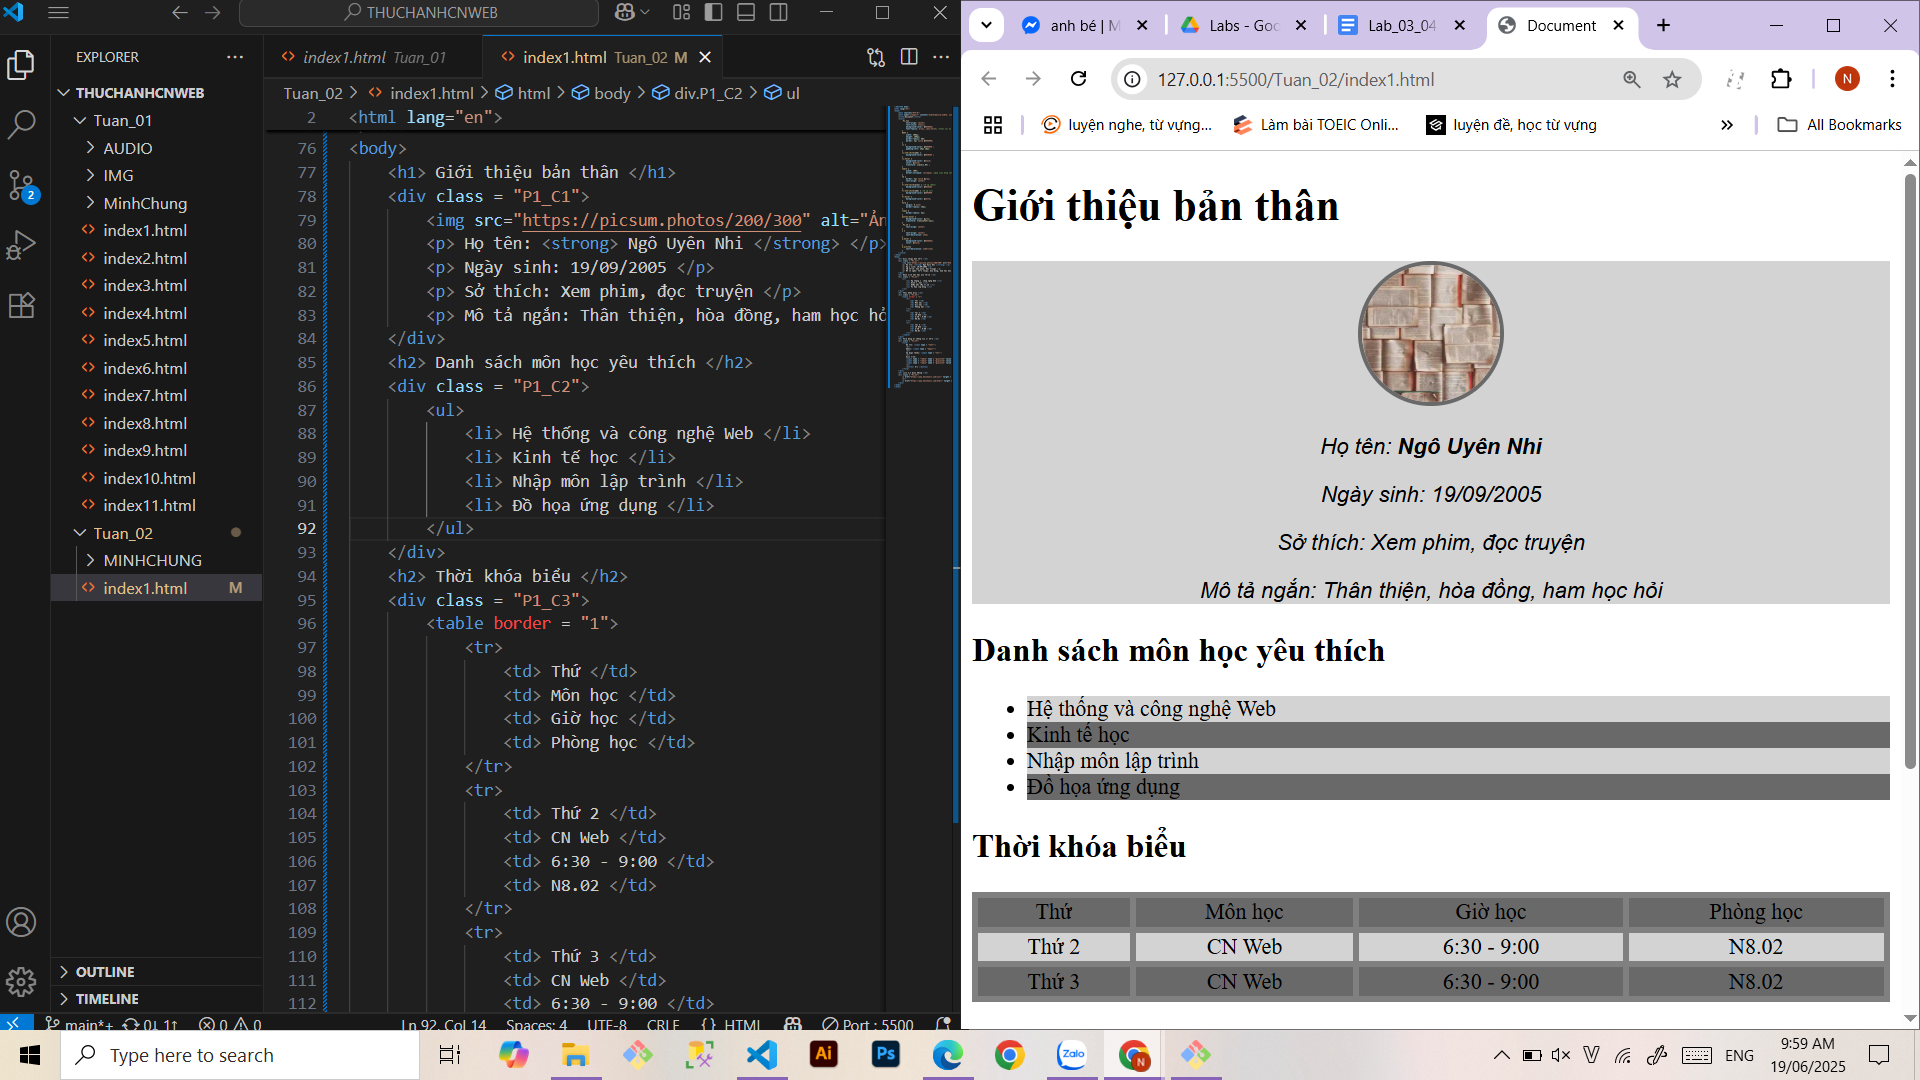
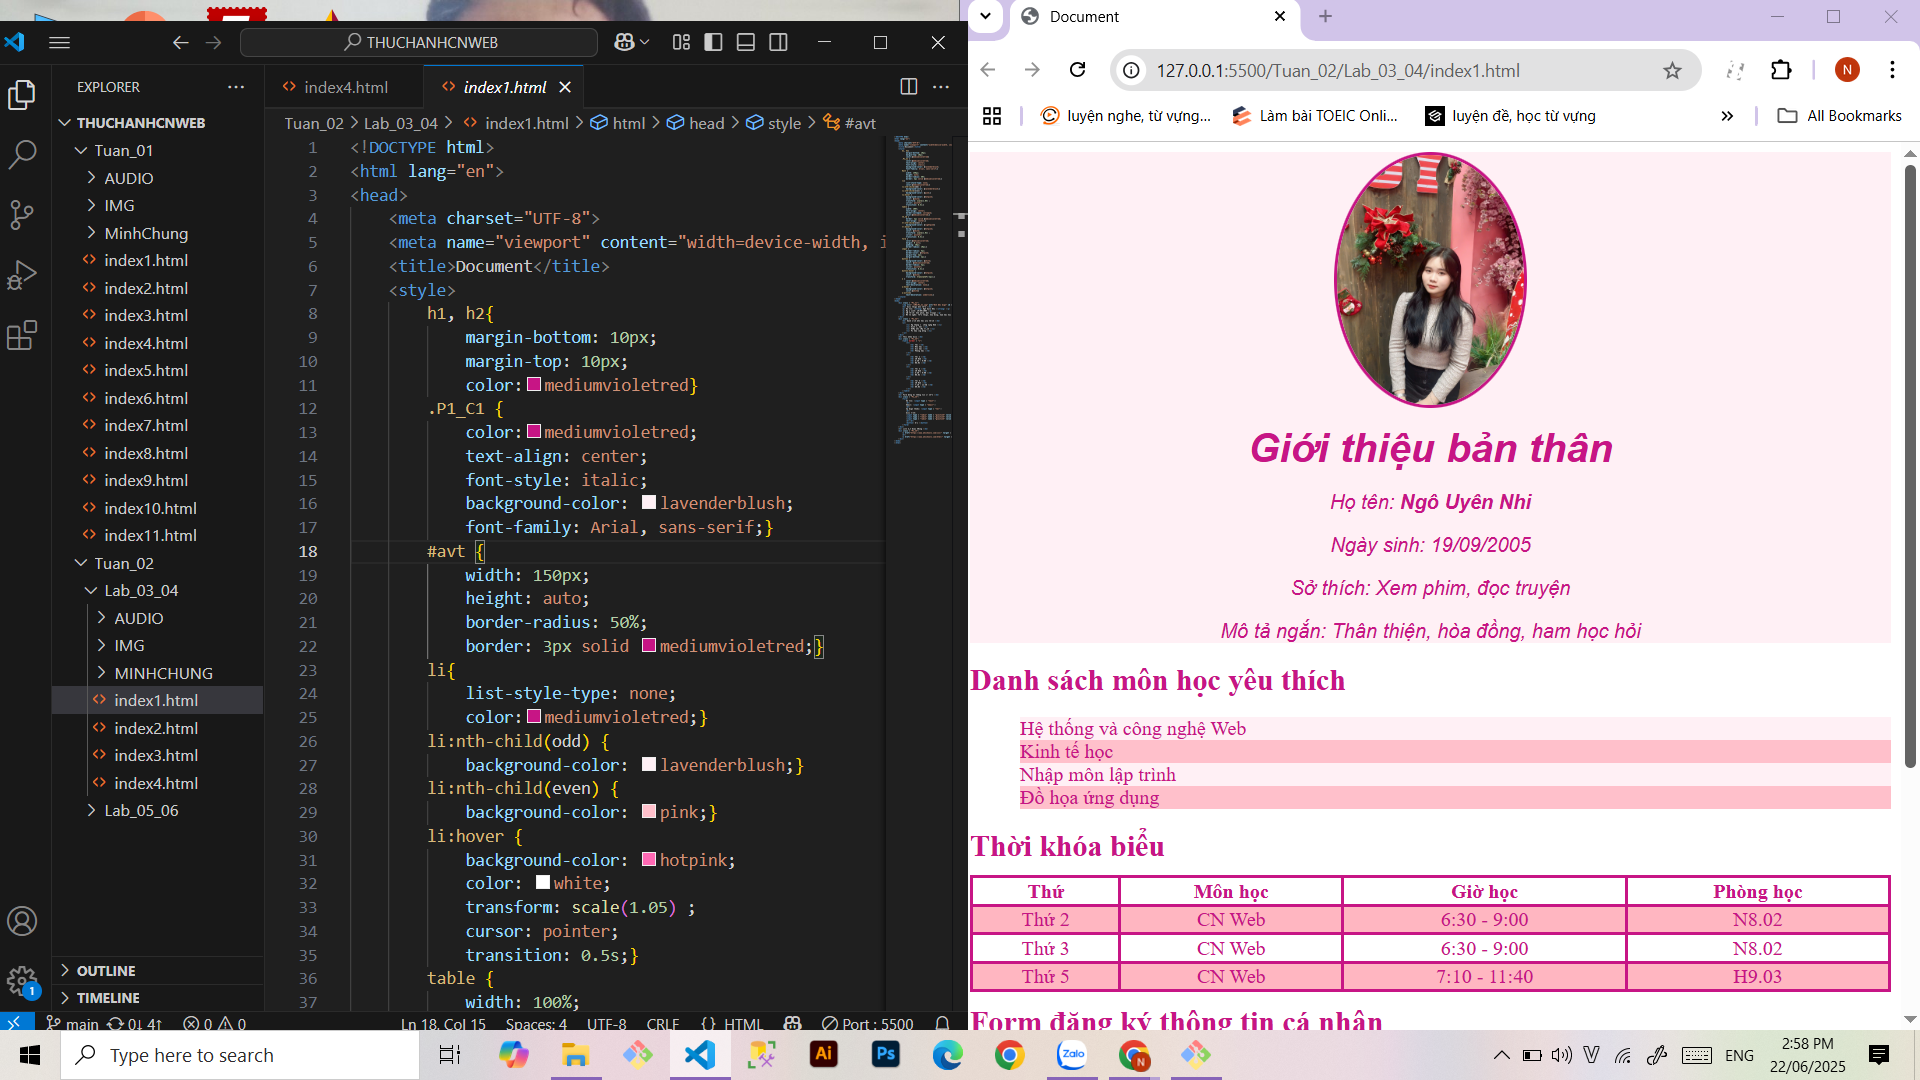
update MC.png + file index4.html

diff --git a/Tuan_02/Lab_03_04/index4.html b/Tuan_02/Lab_03_04/index4.html
@@ -12,7 +12,8 @@
             border-radius: 15px;
             padding: 20px;}
         h1 {
-            margin-top: 0 ;}
+            margin-top: 0 ;
+            color: mediumvioletred;}
         input{
             background-color: white;
             color: mediumvioletred;}
@@ -22,8 +23,8 @@
     </style>
 </head>
 <body>
+    <h1> Form đặt bàn quán ăn </h1>
     <div class="P3_C13">
-        <h1> Form đặt bàn quán ăn </h1>
         <form>
             <h3> Họ Tên Người Đặt Bàn: </h3> 
             <input type = "text" name = "username"/>
